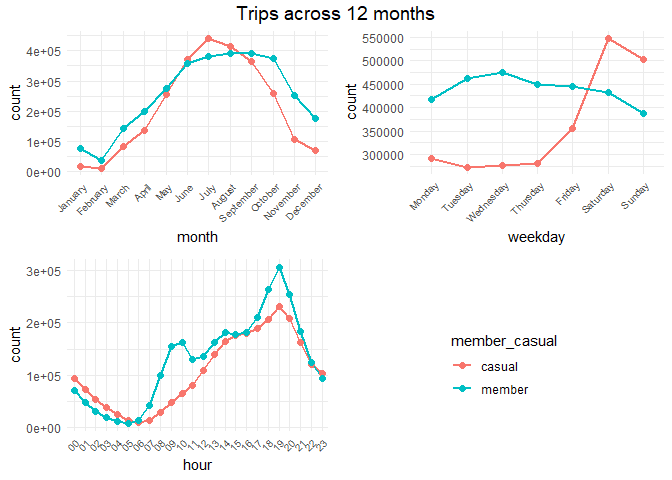
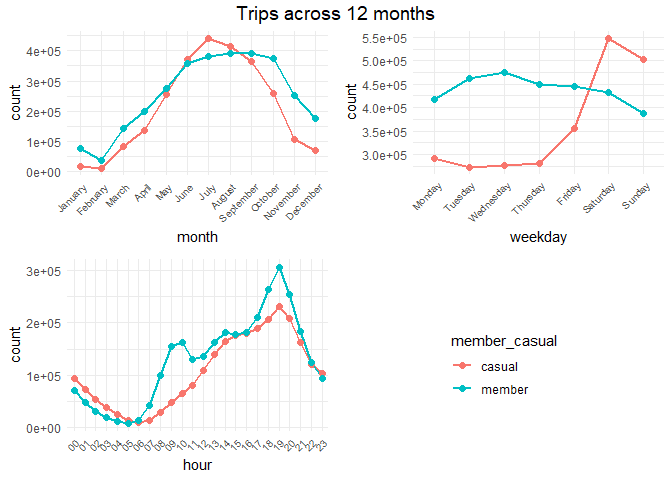
Add files via upload

diff --git a/GoogleDataAnalytics/Cyclistic.md b/GoogleDataAnalytics/Cyclistic.md
@@ -1,7 +1,7 @@
 Cyclistic Case Study
 ================
 Benjamin Sivac
-2022-03-20
+2022-03-21
 
 ### Preamble
 
@@ -43,6 +43,7 @@ coordinates, as well as useful packages for observing the data.
 library(tidyverse) # tidy data & piping
 library(lubridate) # 
 library(geosphere)
+library(scales)
 library(ggpubr)
 ```
 
@@ -148,11 +149,11 @@ df_trips$trip_length <- df_trips %>% with(hms::hms(seconds_to_period(difftime(en
 df_trips$trip_length %>%  sample(5)
 ```
 
-    ## 00:17:38
-    ## 00:27:01
-    ## 00:08:32
-    ## 00:02:06
-    ## 00:03:25
+    ## 00:06:42
+    ## 00:21:28
+    ## 00:30:31
+    ## 00:12:28
+    ## 00:51:18
 
 ``` r
 df_trips$trip_length %>% min()
@@ -166,13 +167,13 @@ for other variables, like rideable type.
 
 #### Distance travelled
 
-Following code is an attempt at trying to make use of the recorded spatial coordinates of each observation. 
-It will likely be inaccurate, as Haversine formula calculates the
-great-circle distance between two coordinates with no regards to
-different routes, while also returning values of zero for people
-returning to the same starting station. But it may still give an idea of
-any differences between types of riders as there are close to 5.5
-million observations.
+Following code is an attempt at trying to make use of the recorded
+spatial coordinates of each observation. It will likely be inaccurate,
+as Haversine formula calculates the great-circle distance between two
+coordinates with no regards to different routes, while also returning
+values of zero for people returning to the same starting station. But it
+may still give an idea of any differences between types of riders as
+there are close to 5.5 million observations.
 
 ``` r
 df_trips <- df_trips %>% mutate(distance_travelled = distHaversine(cbind(start_lat, start_lng), cbind(end_lat, end_lng)))
@@ -180,7 +181,7 @@ df_trips$distance_travelled <- df_trips$distance_travelled %>% round(digits=2)
 sample(df_trips$distance_travelled, 5)
 ```
 
-    ## [1]    0.00 1895.71    9.09  423.89 1008.47
+    ## [1] 1661.72 3339.90  689.19    0.00 1628.63
 
 #### Time variables
 
@@ -196,7 +197,7 @@ df_trips$month <- ordered(df_trips$month, levels=c("January", "February", "March
 sample(df_trips$month,5)
 ```
 
-    ## [1] November July     October  May      July    
+    ## [1] August  June    June    April   October
     ## 12 Levels: January < February < March < April < May < June < ... < December
 
 ``` r
@@ -206,7 +207,7 @@ df_trips$weekday <- ordered(df_trips$weekday, levels=c("Monday", "Tuesday", "Wed
 sample(df_trips$weekday,5)
 ```
 
-    ## [1] Sunday   Saturday Tuesday  Sunday   Friday  
+    ## [1] Monday    Monday    Sunday    Monday    Wednesday
     ## 7 Levels: Monday < Tuesday < Wednesday < Thursday < Friday < ... < Sunday
 
 ``` r
@@ -214,7 +215,7 @@ df_trips$hour <- df_trips$started_at %>% strftime('%H')
 sample(df_trips$hour,5)
 ```
 
-    ## [1] "15" "01" "14" "21" "17"
+    ## [1] "12" "13" "14" "15" "15"
 
 #### Data overview
 
@@ -252,11 +253,11 @@ cases.
 
 ### Analysis
 
-With the data cleaned, adjusted and prepared the analysis can finally begin.
-It will cover ratios, time series, and frequencies for gaining insights
-into customer profiles. This would help adjust marketing efforts,
-improve engagement, and better promote Cyclistic with the casual user
-base.
+With the data cleaned, adjusted and prepared the analysis can finally
+begin. It will cover ratios, time series, and frequencies for gaining
+insights into customer profiles. This would help adjust marketing
+efforts, improve engagement, and better promote Cyclistic with the
+casual user base.
 
 ``` r
 plot_prop <- df_trips %>% 
@@ -293,9 +294,9 @@ ggarrange(plot_prop, plot_bikes,
           common.legend = TRUE,
           legend="bottom")
 ```
-<p align="center">
+
 <img src="Cyclistic_files/figure-gfm/Proportions-1.png" style="display: block; margin: auto;" />
-</p>
+
 For an overview of the customer base, members account for 54.8% of total
 rides taken during the 1-year period, while casual riders comprised the
 remaining 45.2% of trips. There is clearly a strong incentive for
@@ -316,7 +317,8 @@ plot_weekday <- df_trips %>% ggplot(aes(weekday, color=member_casual, group = me
   geom_point(stat='count', size = 2) +
   theme_minimal() +
   theme(axis.text.x = element_text(angle=45, hjust=1, size = 7.7),
-        legend.position = "none")
+        legend.position = "none") +
+  scale_y_continuous(labels = scientific)
 
 plot_hour <- df_trips %>% ggplot(aes(hour, color=member_casual, group = member_casual)) + 
   geom_line(stat='count', size = 1) +
@@ -335,9 +337,9 @@ ggarrange(plot_month, plot_weekday, plot_hour, plot_legend,
          align="hv") %>%
   annotate_figure(top = text_grob("Trips across 12 months", size=14))
 ```
-<p align="center">
+
 <img src="Cyclistic_files/figure-gfm/Time series-1.png" style="display: block; margin: auto;" />
-</p>
+
 In terms of monthly trips, number of casual users peak in July and hit a
 bottom in February, a clear relationship to weather conditions and
 vacation times. Members do share similar numbers but, perhaps not
@@ -369,13 +371,15 @@ plot_duration <- df_trips %>% filter(trip_length > 0) %>%
   stat_summary(fun = mean, geom = "line", size=1) +
   stat_summary(fun = mean, geom = "point", size=2) +# The stat_summary function removes all rows with null values.
   theme(axis.text.x = element_text(angle=45, hjust=1, size = 7.7)) +
-  theme_minimal()
+  theme_minimal() +
+  ylab("trip length [h:m:s]")
 plot_distance <- df_trips %>% filter(distance_travelled > 0) %>% 
   ggplot(aes(hour, distance_travelled, group = member_casual, color = member_casual)) +
   stat_summary(fun = mean, geom = "line", size=1) +
   stat_summary(fun = mean, geom = "point", size=2) + # The stat_summary function removes all rows with null values.
   theme(axis.text.x = element_text(angle=45, hjust=1, size = 7.7)) +
-  theme_minimal()
+  theme_minimal() +
+  ylab("distance travelled [m]")
 
 ggarrange(plot_duration, plot_distance, 
           common.legend = T, 
@@ -385,9 +389,9 @@ ggarrange(plot_duration, plot_distance,
   annotate_figure(top = text_grob("Average Trip length- and Distance travelled, by hour", 
                                   size=14))
 ```
-<p align="center">
+
 <img src="Cyclistic_files/figure-gfm/trip_distance_hour-1.png" style="display: block; margin: auto;" />
-</p>
+
 Casual users on average tend to bike for both longer periods of time and
 longer distances, which is reasonable as workers would likely stick to a
 few selected routes for making good on time. But also, casual users
@@ -421,11 +425,13 @@ df_trips %>% filter(trip_length > 0) %>%
   theme_minimal() +
   theme(axis.text.x = element_text(angle=45, hjust=1),
         plot.title = element_text(hjust = 0.5)) +
-  labs(title="5 most common stations")
+  labs(title="5 most common stations", 
+       x = "station name",
+       y = "count")
 ```
-<p align="center">
+
 <img src="Cyclistic_files/figure-gfm/5 common-1.png" style="display: block; margin: auto;" />
-</p>
+
 ‘Streeter Dr & Grand Ave’ and Millenium Park would be the best stations
 for placing advertisement appealing to casual riders. Members have very
 low numbers at Millennium Park, likely because it is not en route to any
@@ -441,11 +447,13 @@ df_trips %>% filter(trip_length > 0) %>%
   theme_minimal() +
   theme(axis.text.x = element_text(angle=45, hjust=1),
         plot.title = element_text(hjust = 0.5)) +
-  labs(title="Trip length by 5 most common stations")
+  labs(title="Trip length by 5 most common stations", 
+       y = "trip length [h:m:s]",
+       x = "station name")
 ```
-<p align="center">
+
 <img src="Cyclistic_files/figure-gfm/Duration by common stations-1.png" style="display: block; margin: auto;" />
-</p>
+
 Trip length by the 5 most common starting stations support the above
 hypothesis, as casual riders would likely make stops and have extended
 outings at Millennium Park.
